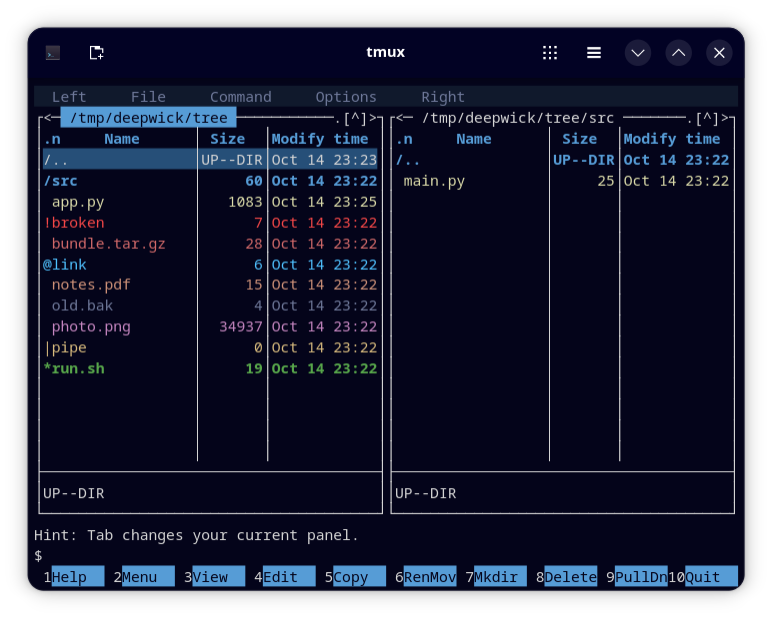
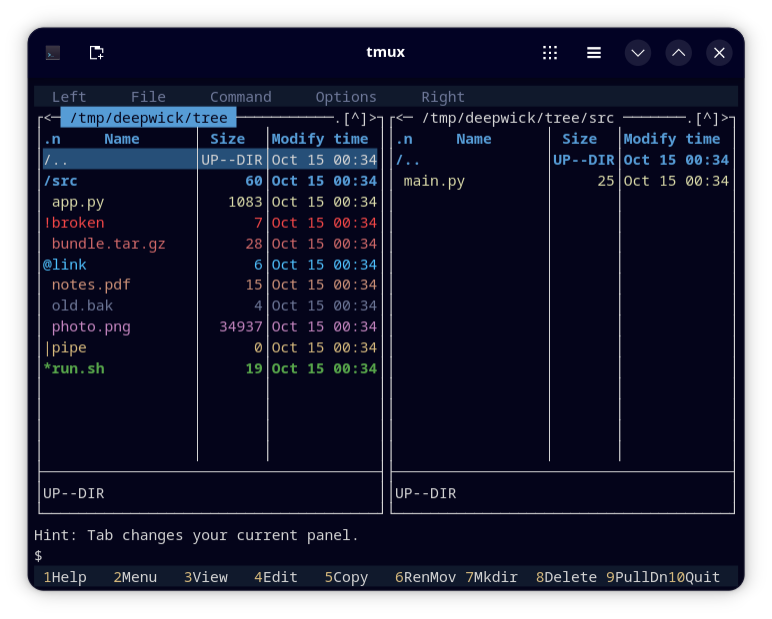
Put the button bar on Surface; document 16-color substitutions

Changed region(s): [[0.0622, 0.8901, 0.9637, 0.9515], [0.4041, 0.2456, 0.4974, 0.6139], [0.8705, 0.2456, 0.9637, 0.3069]]

diff --git a/tests/test_skins.py b/tests/test_skins.py
@@ -175,5 +175,13 @@ def test_mc_16_color_skin_without_colorterm(tmp_path):
     assert style_containing(out, "run.sh")["fg"] == "ansi:2"
 
 
+def test_buttonbar_on_surface():
+    bar = skin("deepwick.ini")["buttonbar"]
+    assert bar["hotkey"] == "dw_gold;dw_surface"
+    assert bar["button"] == "dw_fg;dw_surface"
+    bar16 = skin("deepwick16.ini")["buttonbar"]
+    assert (bar16["hotkey"], bar16["button"]) == ("yellow;black", "lightgray;black")
+
+
 def test_port_conventions():
     assert check_port(REPO, PALETTE.allowed_hex()) == []

diff --git a/README.md b/README.md
@@ -43,12 +43,16 @@ terminal theme ([Ptyxis](https://github.com/deepwick/ptyxis),
   executables bold Green, symlinks Cyan, broken links Red, devices and FIFOs
   Gold, archives Rose, media and images Magenta, documents Orange, source
   Yellow, temp files Muted. mc colors the whole row, not just the name.
-- Dialogs, menus and the status bar sit on Surface; the cursor row is on
+- Dialogs, menus, the status bar and the button bar sit on Surface; the cursor row is on
   Selection; marked files are bold Yellow.
 - The internal editor's syntax colors come from mc's syntax files, not the
   skin, so they are not themed.
-- In `deepwick16`, Gold becomes yellow and Cyan becomes bright cyan, because
-  they have no ANSI slot.
+- `deepwick16` uses the nearest ANSI slot where Deepwick has none: Surface
+  becomes Overlay; Selection becomes Blue with Overlay text; Gold (hotkeys,
+  devices) becomes bright yellow; Cyan (symlinks) becomes bright cyan; Orange
+  (documents, help links) becomes bright red; Rose (archives) becomes Red, the
+  same as broken links; Comment becomes Muted; and the diff viewer uses solid
+  Green, Red and Blue backgrounds with Overlay text.
 
 Tested with GNU Midnight Commander 4.8.33.
 
